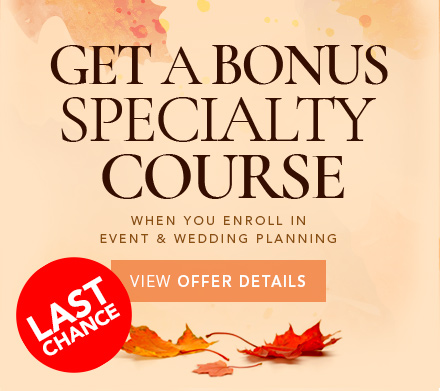
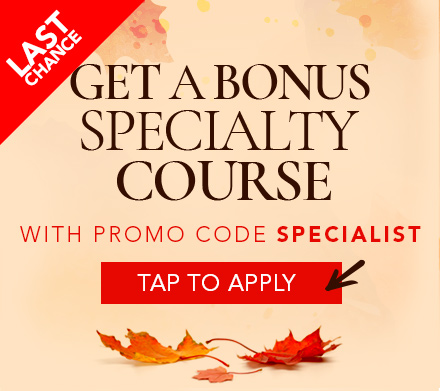
Add popup offers for design and event

diff --git a/src/pages/event/default/2021/10/12/index.tsx b/src/pages/event/default/2021/10/12/index.tsx
@@ -1,30 +1,23 @@
 /* eslint-disable @typescript-eslint/no-magic-numbers */
-import React from 'react';
+import { faCheck } from '@fortawesome/free-solid-svg-icons';
+import { FontAwesomeIcon } from '@fortawesome/react-fontawesome';
+import React, { ReactElement } from 'react';
 import { Modal, ModalBody, ModalHeader } from 'reactstrap';
-import { PromoCode } from '../../../../../../components/PromoCode';
 
 import { useDispatchContext } from '../../../../../../hooks/useDispatchContext';
 import { usePopup } from '../../../../../../hooks/usePopup';
-import { usePreloadImages } from '../../../../../../hooks/usePreloadImages';
 import { useScreenWidthContext } from '../../../../../../hooks/useScreenWidthContext';
 import { useStateContext } from '../../../../../../hooks/useStateContext';
-
-import couponButtonAppliedSrc from './coupon-btn-TREAT-active.svg';
-import couponButtonSrc from './coupon-btn-TREAT.svg';
-
-const preloadImages = [ couponButtonAppliedSrc ];
 
 type Props = {
   date: Date;
 };
 
-export const Promo20211001: React.FC<Props> = ({ date }) => {
+export const Promo20211012 = ({ date }: Props): ReactElement => {
   const { price } = useStateContext();
   const dispatch = useDispatchContext();
   const screenWidth = useScreenWidthContext();
   const [ popup, togglePopup ] = usePopup(false);
-
-  usePreloadImages(preloadImages);
 
   const desktop = screenWidth > 514;
 
@@ -32,7 +25,7 @@ export const Promo20211001: React.FC<Props> = ({ date }) => {
   let width: number;
   let height: number;
 
-  if (date.getTime() >= Date.UTC(2021, 9, 29, 4)) { // October 29 at 00:00 (04:00 UTC)
+  if (date.getTime() >= Date.UTC(2021, 10, 15, 4)) { // October 15 at 00:00 (04:00 UTC)
     if (desktop) {
       image = require('./desktop-ends.jpg').default;
     } else {
@@ -47,20 +40,25 @@ export const Promo20211001: React.FC<Props> = ({ date }) => {
   }
 
   if (desktop) {
-    width = 1257;
-    height = 503;
+    width = 976;
+    height = 500;
   } else {
     width = 514;
-    height = 614;
+    height = 652;
   }
 
   const buttonClick = (): void => {
-    dispatch({ type: 'SET_PROMO_CODE', payload: 'TREAT' });
+    dispatch({ type: 'SET_PROMO_CODE', payload: 'WEDDING21' });
+    dispatch({ type: 'REMOVE_COURSE', payload: { courseCode: 'CE', internal: false } });
+    dispatch({ type: 'REMOVE_COURSE', payload: { courseCode: 'WP', internal: false } });
+    dispatch({ type: 'ADD_COURSE', payload: { courseCode: 'EP', internal: false } });
+    dispatch({ type: 'ADD_COURSE', payload: { courseCode: 'DW', internal: false } });
+    dispatch({ type: 'ADD_COURSE', payload: { courseCode: 'LW', internal: false } });
   };
 
   return (
     <>
-      <section id="promoSection" style={{ backgroundColor: '#000', padding: 0 }}>
+      <section id="promoSection" style={{ backgroundColor: 'white', padding: 0 }}>
         <div className="container px-0">
           <div className="text-center">
             <button className="btn btn-link p-0 border-0 btn-no-hover-shadow" onClick={togglePopup}>
@@ -69,19 +67,17 @@ export const Promo20211001: React.FC<Props> = ({ date }) => {
           </div>
         </div>
         <Modal size="lg" isOpen={popup} toggle={togglePopup}>
-          <ModalHeader toggle={togglePopup}>Special Offer</ModalHeader>
+          <ModalHeader toggle={togglePopup}>FREE Specialty Course</ModalHeader>
           <ModalBody>
-            <h5>Get a FREE Certification Course!</h5>
-            <p>Enroll in ANY of QC&apos;s online design courses and use promo code <PromoCode>TREAT</PromoCode> to get any 2nd course for FREE. This means you could save up to $1498!</p>
-            <p>Plus, you&apos;ll receive the NEW easy-to-use laser &ldquo;tape&rdquo; measure. It makes measuring rooms an absolute breeze.</p>
+            <p>Until Friday, October 15th, you can enroll in <strong>Event &amp; Wedding Planning</strong> and get 2 FREE Specialization Courses: QC&apos;s <strong>Luxury Wedding</strong> course and <strong>Destination Wedding Planning</strong> course. With the upcoming wave of rescheduled weddings, you&apos;ll take the industry by storm!</p>
           </ModalBody>
         </Modal>
       </section>
-      <div className="text-white" style={{ backgroundColor: '#000' }}>
+      <div className="text-white" style={{ backgroundColor: 'white' }}>
         <div className="container py-3 d-flex justify-content-center">
-          {price?.promoCode === 'TREAT'
-            ? <img src={couponButtonAppliedSrc} width="297" height="40" className="img-fluid" alt="Promo Code" />
-            : <button onClick={buttonClick} className="btn btn-link p-0 border-0 btn-no-hover-shadow"><img src={couponButtonSrc} width="297" height="40" className="img-fluid" alt="Promo Code" /></button>
+          {price?.promoCode === 'WEDDING21'
+            ? <button className="btn btn-primary" disabled>Promo Code Applied <FontAwesomeIcon icon={faCheck} /></button>
+            : <button onClick={buttonClick} className="btn btn-primary">Apply Promo Code: WEDDING21</button>
           }
         </div>
       </div>

diff --git a/src/pages/design/default/2021/10/01/index.tsx b/src/pages/design/default/2021/10/01/index.tsx
@@ -1,6 +1,7 @@
 /* eslint-disable @typescript-eslint/no-magic-numbers */
-import React, { ReactElement } from 'react';
+import React from 'react';
 import { Modal, ModalBody, ModalHeader } from 'reactstrap';
+import { PromoCode } from '../../../../../../components/PromoCode';
 
 import { useDispatchContext } from '../../../../../../hooks/useDispatchContext';
 import { usePopup } from '../../../../../../hooks/usePopup';
@@ -8,8 +9,8 @@ import { usePreloadImages } from '../../../../../../hooks/usePreloadImages';
 import { useScreenWidthContext } from '../../../../../../hooks/useScreenWidthContext';
 import { useStateContext } from '../../../../../../hooks/useStateContext';
 
-import couponButtonAppliedSrc from './button-SPECIALIST-active.svg';
-import couponButtonSrc from './button-SPECIALIST.svg';
+import couponButtonAppliedSrc from './coupon-btn-TREAT-active.svg';
+import couponButtonSrc from './coupon-btn-TREAT.svg';
 
 const preloadImages = [ couponButtonAppliedSrc ];
 
@@ -17,7 +18,7 @@ type Props = {
   date: Date;
 };
 
-export const Promo20211001 = ({ date }: Props): ReactElement => {
+export const Promo20211001: React.FC<Props> = ({ date }) => {
   const { price } = useStateContext();
   const dispatch = useDispatchContext();
   const screenWidth = useScreenWidthContext();
@@ -33,34 +34,33 @@ export const Promo20211001 = ({ date }: Props): ReactElement => {
 
   if (date.getTime() >= Date.UTC(2021, 9, 29, 4)) { // October 29 at 00:00 (04:00 UTC)
     if (desktop) {
-      image = price?.promoCode === 'SPECIALIST' ? require('./desktop-ends-active.jpg').default : require('./desktop-ends.jpg').default;
+      image = price?.promoCode === 'TREAT' ? require('./desktop-ends-active.jpg').default : require('./desktop-ends.jpg').default;
     } else {
-      image = price?.promoCode === 'SPECIALIST' ? require('./mobile-ends-active.jpg').default : require('./mobile-ends.jpg').default;
+      image = price?.promoCode === 'TREAT' ? require('./mobile-ends-active.jpg').default : require('./mobile-ends.jpg').default;
     }
   } else {
     if (desktop) {
-      image = price?.promoCode === 'SPECIALIST' ? require('./desktop-active.jpg').default : require('./desktop.jpg').default;
+      image = price?.promoCode === 'TREAT' ? require('./desktop-active.jpg').default : require('./desktop.jpg').default;
     } else {
-      image = price?.promoCode === 'SPECIALIST' ? require('./mobile-active.jpg').default : require('./mobile.jpg').default;
+      image = price?.promoCode === 'TREAT' ? require('./mobile-active.jpg').default : require('./mobile.jpg').default;
     }
   }
 
   if (desktop) {
-    width = 976;
-    height = 476;
+    width = 1257;
+    height = 503;
   } else {
-    width = 440;
-    height = 391;
+    width = 514;
+    height = 614;
   }
 
   const buttonClick = (): void => {
-    dispatch({ type: 'SET_PROMO_CODE', payload: 'SPECIALIST' });
-    dispatch({ type: 'ADD_COURSE', payload: { courseCode: 'EP', internal: false } });
+    dispatch({ type: 'SET_PROMO_CODE', payload: 'TREAT' });
   };
 
   return (
     <>
-      <section id="promoSection" style={{ backgroundColor: '#ffe3c2', padding: 0 }}>
+      <section id="promoSection" style={{ backgroundColor: '#000', padding: 0 }}>
         <div className="container px-0">
           <div className="text-center">
             <button className="btn btn-link p-0 border-0 btn-no-hover-shadow" onClick={buttonClick}>
@@ -69,13 +69,15 @@ export const Promo20211001 = ({ date }: Props): ReactElement => {
           </div>
         </div>
         <Modal size="lg" isOpen={popup} toggle={togglePopup}>
-          <ModalHeader toggle={togglePopup}>FREE Specialty Course</ModalHeader>
+          <ModalHeader toggle={togglePopup}>Special Offer</ModalHeader>
           <ModalBody>
-            <p>Until October 31st, you can take advantage of a scary good deal: Enroll in <strong>Event &amp; Wedding Planning</strong> and get a <strong>FREE specialty course</strong>. You can choose from 8 courses&mdash;{price?.currency.code === 'GBP' ? 'and save hundreds on your tuition' : 'and save up to $1039'}!</p>
+            <h5>Get a FREE Certification Course!</h5>
+            <p>Enroll in ANY of QC&apos;s online design courses and use promo code <PromoCode>TREAT</PromoCode> to get any 2nd course for FREE. This means you could save up to $1498!</p>
+            <p>Plus, you&apos;ll receive the NEW easy-to-use laser &ldquo;tape&rdquo; measure. It makes measuring rooms an absolute breeze.</p>
           </ModalBody>
         </Modal>
       </section>
-      <div className="text-white" style={{ backgroundColor: '#ffe3c2' }}>
+      <div className="text-white" style={{ backgroundColor: '#000' }}>
         <div className="container py-3 d-flex justify-content-center">
           <button onClick={togglePopup} className="btn btn-secondary">View Offer Details</button>
         </div>

diff --git a/src/pages/design/default/2021/10/12/index.tsx b/src/pages/design/default/2021/10/12/index.tsx
@@ -1,0 +1,84 @@
+/* eslint-disable @typescript-eslint/no-magic-numbers */
+import { faCheck } from '@fortawesome/free-solid-svg-icons';
+import { FontAwesomeIcon } from '@fortawesome/react-fontawesome';
+import React from 'react';
+import { Modal, ModalBody, ModalHeader } from 'reactstrap';
+import { PromoCode } from '../../../../../../components/PromoCode';
+
+import { useDispatchContext } from '../../../../../../hooks/useDispatchContext';
+import { usePopup } from '../../../../../../hooks/usePopup';
+import { useScreenWidthContext } from '../../../../../../hooks/useScreenWidthContext';
+import { useStateContext } from '../../../../../../hooks/useStateContext';
+
+type Props = {
+  date: Date;
+};
+
+export const Promo20211012: React.FC<Props> = ({ date }) => {
+  const { price } = useStateContext();
+  const dispatch = useDispatchContext();
+  const screenWidth = useScreenWidthContext();
+  const [ popup, togglePopup ] = usePopup(false);
+
+  const desktop = screenWidth > 514;
+
+  let image: string;
+  let width: number;
+  let height: number;
+
+  if (date.getTime() >= Date.UTC(2021, 10, 16, 4)) { // October 16 at 00:00 (04:00 UTC)
+    if (desktop) {
+      image = require('./desktop-ends.jpg').default;
+    } else {
+      image = require('./mobile-ends.jpg').default;
+    }
+  } else {
+    if (desktop) {
+      image = require('./desktop.jpg').default;
+    } else {
+      image = require('./mobile.jpg').default;
+    }
+  }
+
+  if (desktop) {
+    width = 1257;
+    height = 503;
+  } else {
+    width = 514;
+    height = 614;
+  }
+
+  const buttonClick = (): void => {
+    dispatch({ type: 'SET_PROMO_CODE', payload: 'TREAT' });
+  };
+
+  return (
+    <>
+      <section id="promoSection" style={{ backgroundColor: '#000', padding: 0 }}>
+        <div className="container px-0">
+          <div className="text-center">
+            <button className="btn btn-link p-0 border-0 btn-no-hover-shadow" onClick={togglePopup}>
+              <img src={image} width={width} height={height} className="img-fluid d-block mx-auto" alt="Special Offer" />
+            </button>
+          </div>
+        </div>
+        <Modal size="lg" isOpen={popup} toggle={togglePopup}>
+          <ModalHeader toggle={togglePopup}>Special Offer</ModalHeader>
+          <ModalBody>
+            <h5>Get a FREE Certification Course!</h5>
+            <p>Enroll in ANY of QC&apos;s online design courses and use promo code <PromoCode>TREAT</PromoCode> to get any 2nd course for FREE. This means you could save up to $1498!</p>
+            <p>Plus, you&apos;ll receive the NEW easy-to-use laser &ldquo;tape&rdquo; measure. It makes measuring rooms an absolute breeze.</p>
+          </ModalBody>
+        </Modal>
+      </section>
+      <div className="text-white" style={{ backgroundColor: '#000' }}>
+        <div className="container py-3 d-flex justify-content-center">
+          {price?.promoCode === 'TREAT'
+            ? <button className="btn btn-primary" disabled>Promo Code Applied <FontAwesomeIcon icon={faCheck} /></button>
+            : <button onClick={buttonClick} className="btn btn-primary">Apply Promo Code: TREAT</button>
+          }
+        </div>
+      </div>
+    </>
+  );
+};

diff --git a/src/components/Payment/getPromos.tsx b/src/components/Payment/getPromos.tsx
@@ -199,9 +199,9 @@ export const getPromos = (now: Date, price: PriceState, school: School, student:
       desktopImageSrc: require('./images/event/coupon-WEDDING21.jpg').default,
       mobileImageSrc: require('./images/event/coupon-mobile-WEDDING21.jpg').default,
       altText: 'Enroll in Event & Wedding Planning and get two free specialty courses',
-      startDate: new Date(Date.UTC(2021, 5, 14, 13)), // June 14 at 09:00
-      endDate: new Date(Date.UTC(2021, 5, 28, 13)), // June 28 at 09:00
-      displayEndDate: new Date(2021, 5, 25), // June 11
+      startDate: new Date(Date.UTC(2021, 9, 12, 13, 30)), // October 12 at 09:30 (13:30 UTC)
+      endDate: new Date(Date.UTC(2021, 9, 16, 4)), // October 16 at 00:00 (04:00 UTC)
+      displayEndDate: new Date(2021, 9, 15), // October 15
     },
     {
       schools: [ 'QC Event School' ],

diff --git a/src/pages/design/default/DefaultPromo.tsx b/src/pages/design/default/DefaultPromo.tsx
@@ -1,7 +1,7 @@
 import React, { ReactElement } from 'react';
 
-import { Promo20210920 } from './2021/09/20';
-import { Promo20211001 } from './2021/10/1';
+import { Promo20211001 } from './2021/10/01';
+import { Promo20211012 } from './2021/10/12';
 
 type Props = {
   date: Date;
@@ -9,8 +9,10 @@ type Props = {
 
 export const DefaultPromo = ({ date }: Props): ReactElement => {
   const time = date.getTime();
-  if (time >= Date.UTC(2021, 9, 1, 13, 30)) { // October 1 at 09:30 (13:30 UTC)
+  if (time >= Date.UTC(2021, 9, 16, 4)) { // October 16 at 00:00 (04:00 UTC)
     return <Promo20211001 date={date} />;
+  } else if (time >= Date.UTC(2021, 9, 12, 13, 30)) { // October 12 at 09:30 (13:30 UTC)
+    return <Promo20211012 date={date} />;
   }
-  return <Promo20210920 date={date} />;
+  return <Promo20211001 date={date} />;
 };

diff --git a/src/pages/event/default/DefaultPromo.tsx b/src/pages/event/default/DefaultPromo.tsx
@@ -1,7 +1,7 @@
 import React from 'react';
 
-import { Promo20210920 } from './2021/09/20';
 import { Promo20211001 } from './2021/10/1';
+import { Promo20211012 } from './2021/10/12';
 
 type Props = {
   date: Date;
@@ -9,8 +9,10 @@ type Props = {
 
 export const DefaultPromo: React.FC<Props> = ({ date }) => {
   const time = date.getTime();
-  if (time >= Date.UTC(2021, 9, 1, 13, 30)) { // October 1 at 09:30 (13:30 UTC)
+  if (time >= Date.UTC(2021, 9, 16, 4)) { // October 16 at 00:00 (04:00 UTC)
     return <Promo20211001 date={date} />;
+  } else if (time >= Date.UTC(2021, 9, 12, 13, 30)) { // October 12 at 09:30 (13:30 UTC)
+    return <Promo20211012 date={date} />;
   }
-  return <Promo20210920 date={date} />;
+  return <Promo20211001 date={date} />;
 };
